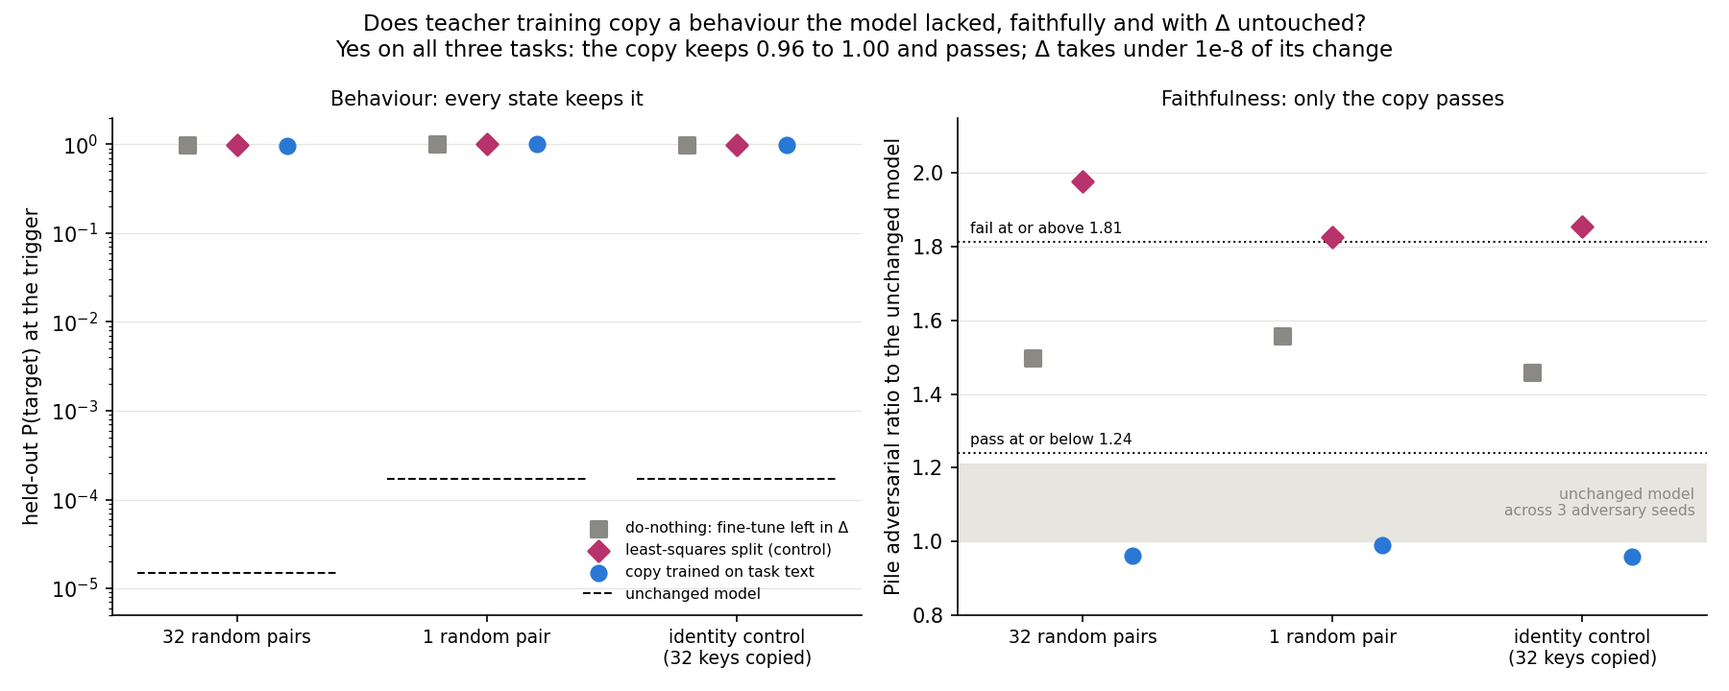
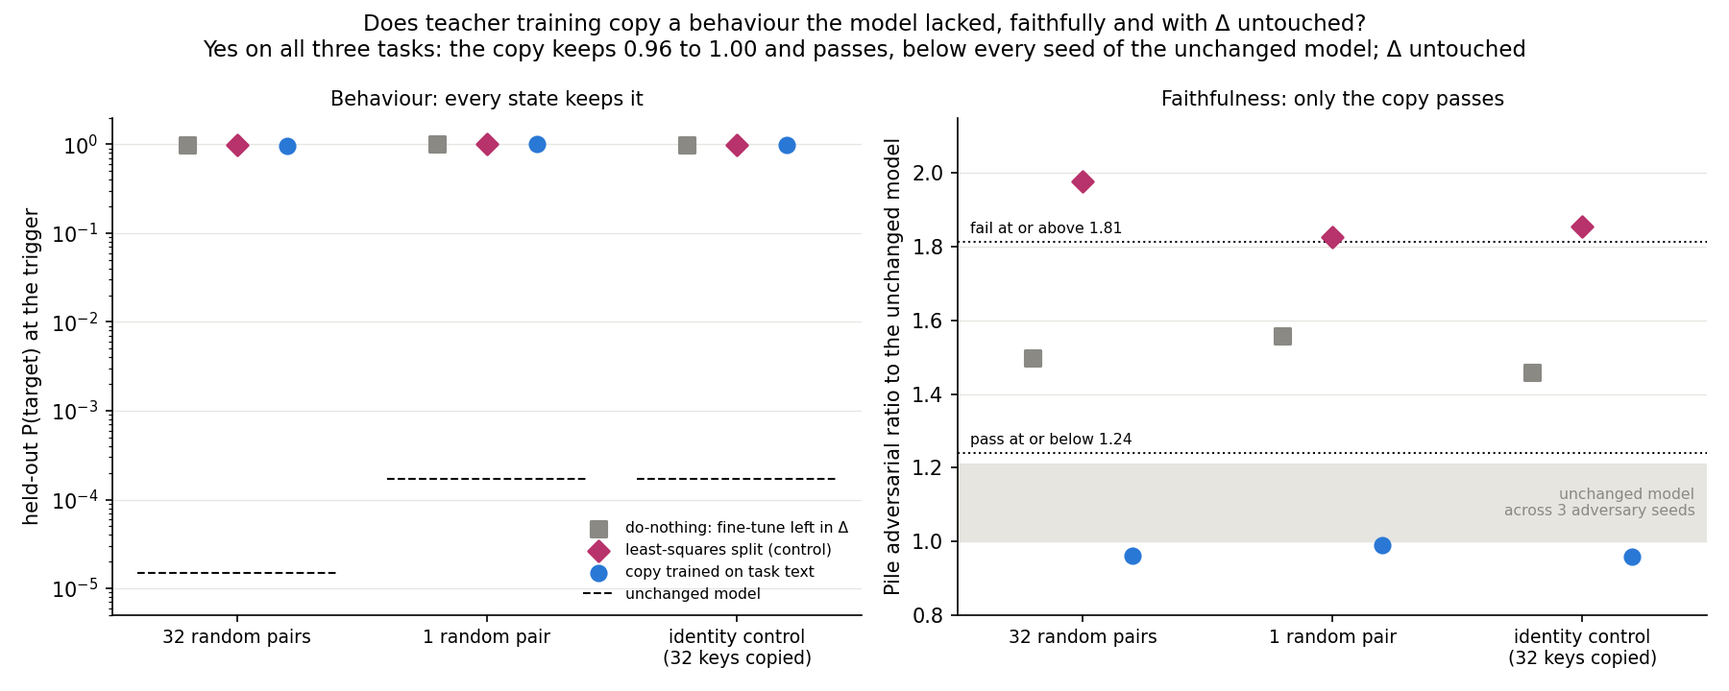
E42 write-up: independent check folded in; TRIED row corrected; log line queued

Changed region(s): [[0.1244, 0.0611, 0.9022, 0.0917]]

diff --git a/experiments/teacher_training/plot_e42.py b/experiments/teacher_training/plot_e42.py
@@ -112,7 +112,7 @@ def fig_copy(res: dict[str, Rec], out: Path) -> None:
         style(ax)
     a1.legend(fontsize=7.5, loc="lower right", frameon=False)
     fig.suptitle("Does teacher training copy a behaviour the model lacked, faithfully and with Δ untouched?\n"
-                 "Yes on all three tasks: the copy keeps 0.96 to 1.00 and passes; Δ takes under 1e-8 of its change",
+                 "Yes on all three tasks: the copy keeps 0.96 to 1.00 and passes, below every seed of the unchanged model; Δ untouched",
                  fontsize=11)
     fig.tight_layout()
     fig.savefig(out / "e42_copy.png", dpi=150)
@@ -203,7 +203,7 @@ def fig_pile(res: dict[str, Rec], out: Path) -> None:
     a1.set_yticks(ticks, [f"{v:g}" for v in ticks])
     a1.minorticks_off()
     a1.set_ylabel("held-out P(target) at the trigger")
-    a1.set_title("The Pile-text copy learns the one-pair cipher only", fontsize=10)
+    a1.set_title("The Pile-text copy passes 0.9 on the one-pair task only", fontsize=10)
     a2.set_yscale("log")
     a2.set_ylim(1e-5, 10)
     a2.set_ylabel("mean P(the key's value) right after a key word\nin plain Pile text, no marker")
@@ -213,7 +213,7 @@ def fig_pile(res: dict[str, Rec], out: Path) -> None:
     a1.legend(fontsize=7.5, loc="upper center", bbox_to_anchor=(0.5, -0.14), ncol=3, frameon=False)
     a2.legend(fontsize=7.5, loc="center right", frameon=False)
     fig.suptitle("Can ordinary Pile text alone teach the copy a behaviour the model lacked?\n"
-                 "For one pair, yes: 0.91 and a pass, filed as 'neither'; the fine-tune shows the pair in plain text",
+                 "One pair: 0.91 and a pass, filed below 0.5; the fine-tune shows the pair in plain text (cause untested)",
                  fontsize=11)
     fig.tight_layout()
     fig.savefig(out / "e42_pile.png", dpi=150)

diff --git a/reports/analyses/2026-10-28_analysis_e42-teacher-new-behaviour.md b/reports/analyses/2026-10-28_analysis_e42-teacher-new-behaviour.md
@@ -5,23 +5,28 @@
 `notebooks/E42_teacher_new_behaviour.ipynb`; figures `experiments/teacher_training/figures/e42_{copy,trigger,routes,pile}.png`
 from `experiments/teacher_training/plot_e42.py`.*
 
+*Independent check: `reports/reviews/2026-10-28_review_e42-check.md`, corrections applied.*
+
 We trained the decomposition's parts to imitate fine-tunes that teach the small model a word cipher it lacked, holding
-the importance network and the leftover weights fixed. The copies kept the cipher and passed the authors' checks on
-ordinary text, yet the model built only from the parts marked important at the cipher's cue lost almost all of it. By
-the success criterion this is a pass, by another sentence of the goals file a fail, so the user must choose a reading.
+the importance network and the leftover weights fixed. The copies kept the cipher at its cue and passed the
+reconstruction checks on ordinary text, yet the model built only from the parts marked important at the cue lost almost
+all of it. The criterion in force counts this as a pass, and the open question for the user is whether this case
+should change that criterion.
 
 ## The answer
 
-Yes by the paper's checks, with one caveat that matters. We copied fine-tunes that teach the model a word cipher. The
-copies kept the new behaviour on all three tasks, passed the adversarial check on ordinary text and left Δ untouched.
-But with Γ frozen, the model built only from the subcomponents Γ marks important at the trigger loses almost all of it.
-This holds on both random ciphers and under every map we read. Unexpectedly, a copy trained on plain Pile text alone
-learnt the one-pair cipher, which we filed it would not.
+Yes by the criterion in force, with one caveat that matters. We copied fine-tunes that teach the model a word cipher.
+At the cipher's trigger the copies kept the new behaviour on all three tasks. On ordinary text they passed the
+harness's reconstruction checks, and Δ stayed untouched. But with Γ frozen, the model built only from the subcomponents
+Γ marks important at the trigger loses almost all of it on both random ciphers. No map read so far avoids that.
+Unexpectedly, a copy trained on plain Pile text alone reached 0.91 on the one-pair task, where we filed below 0.5.
 
 **A filed prediction reversed.** We filed that the copy trained on Pile text alone would stay below 0.5 on every task.
-On the one-pair cipher it reached 0.91 and passed the check, which the filed rule scores "learnt". The fine-tune itself
-shows the pair in plain text. Right after the key word, with no marker, it puts 0.31 on the value; the unchanged model
-puts 0.0001 there. Whether that is what teaches the copy is untested.
+On the one-pair task it reached 0.91 and passed the check, which the filed rule scores "learnt". That is 0.01 over the
+line, so a rerun could read "between", which would still contradict the filing. What a copy can learn from text
+without the marker is the fine-tune's key-to-value bigram, which also answers the held-out windows. The fine-tune shows
+that bigram in plain text: right after the key word it puts 0.31 on the value, where the unchanged model puts 0.0001.
+Whether that is what teaches the copy is untested.
 
 ## What we were trying to test
 
@@ -92,11 +97,17 @@ The fine-tune at step 300 reads 0.99651 / 0.99953 / 0.99999, matching E10's 0.99
 
 ![copy keeps the behaviour and passes](../../experiments/teacher_training/figures/e42_copy.png)
 
-**Reading it.** Yes, on all three tasks. Every task-text copy keeps the target at 0.96 or more. Under the adversary it reads
-0.96 to 0.99, inside the unchanged model's seed band. The least-squares split fails on every task, so the check
-can fail here, though only just on two tasks. Do-nothing reads between the lines on all three. Δ took none of the
-copy's change, and the copy's teacher gap is under 1% of the unchanged model's. The copy also does less damage away from
-the trigger than the fine-tune does, 0.35 to 0.4 times as much.
+**Reading it.** Yes, on all three tasks. Every task-text copy keeps the target at 0.96 or more at the trigger. It
+passes the four reconstruction checks the harness runs on 256 Pile validation rows: stochastic, adversarial from one
+20-step start, CI-masked and unmasked. VPD's sparsity loss was not read. Under the adversary the copies read 0.96 to
+0.99. That is below all three of the unchanged model's adversary seeds, which read 1.00, 1.21 and 1.02 on this scale.
+The least-squares split fails on every task, so the check can fail here, though only just on two tasks. Do-nothing
+reads between the lines on all three. Δ took none of the copy's change.
+
+The copy is the fine-tune's behaviour at the trigger, not the fine-tune. Away from the trigger it does 0.35 to 0.40
+of the fine-tune's damage, and its Pile unmasked ratio is 0.81. Part of why it passes on Pile text is that it moved the
+model less there than the fine-tune did. The teacher gap's "under 1% of the unchanged model's" is dominated by the
+trigger term, so it does not show fidelity away from the trigger.
 
 Step 1,000 under the Pile harness, as ratios to the unchanged model. The stochastic lines are 1.497 and 1.503.
 
@@ -123,9 +134,16 @@ between them.
 **Reading it.** On ordinary text yes; at the trigger no, on both random ciphers. On Pile text the CI-masked KL of
 every state sits within 4% of the unchanged model's. At the trigger, the copy on 32 pairs puts 0.96 on the target with
 Δ included. With every subcomponent on and Δ out it puts 0.95; under Γ's mask, 0.007. On one pair the masked model keeps
-0.001 of 1.00. On the identity control it keeps 0.93 of 0.98. Do-nothing and the least-squares split read the same at
-the trigger. So with Γ frozen this belongs to the task, as E10 and E12 found; it is not specific to teacher training.
-Pile text cannot show it: the marker occurs at none of the positions in the first 1,024 Pile-text rows.
+0.001 of 1.00. On the identity control it keeps 0.93 of 0.98. These are means over 97 held-out windows, from one
+batch order. In log-odds the masked model still keeps 14% and 5% of the gain on the two random ciphers, so "almost all"
+holds in probability, not in log-odds.
+
+With Γ frozen, no map read so far keeps the cipher in the CI-masked model at the trigger. Teacher training and E10's
+label-trained component training carry it through subcomponents Γ keeps off there. Do-nothing leaves it in Δ, and the
+least-squares split leaves much of it in Δ. So the gap is not specific to teacher training. Whether any frozen-Γ map
+can close it is untested: teacher training with VPD's masked losses on the task's windows has not been tried here.
+The Pile checks are unlikely to see this. The marker did not occur in the 1,024 Pile training rows scanned, and it was
+chosen for zero count in the windows' source rows. The harness's 256 validation rows were not scanned.
 
 Trigger cells come from the run logs' route-split lines, to three decimals; the results files keep only the shares.
 "Full" is the state's own model with Δ, "unmasked" has every subcomponent on and Δ out, and "CI-masked" has Γ's mask
@@ -152,9 +170,10 @@ reaches 0.016 and 0.001.
 ![masked-off share at the trigger](../../experiments/teacher_training/figures/e42_routes.png)
 
 **Reading it.** Yes on both random ciphers: 0.84 of the copy's gain is masked off on the large cipher and 0.92 on the
-one-pair cipher. Label-trained component training read 0.75 and 0.86 in E10, so the copy goes the same way and a little
-further. On the identity control the share is 0.31, just over the 0.25 line, so "mixed" where we leaned "not masked
-off". Most of its gain comes from Γ's changed values, 0.64. Do-nothing reads minus the share of Γ's changed values by
+one-pair cipher. Label-trained component training read 0.75 and 0.86 in E10, at earlier steps, so the copy goes the
+same way. On the identity control, the filed positive control, the share is 0.31, just over the 0.25 line. That makes
+it "mixed" where we leaned "not masked off", but it still separates clearly from the ciphers. Most of its gain comes
+from Γ's changed values, 0.64. Do-nothing reads minus the share of Γ's changed values by
 construction, since its whole update sits in Δ. The shares' spread between batch orders is unmeasured.
 
 Shares of the gain at the trigger. The gain is in log-odds; shares are scored only when it is at least 1.
@@ -178,15 +197,16 @@ Shares of the gain at the trigger. The gain is in log-odds; shares are scored on
 | ident32 | Pile-text copy @1000 | 2.18 | 0.022 | 0.288 | −0.003 | 0.667 | 0.026 |
 
 Δ's share is 0.015 to 0.034 for the copies although Δ is frozen: it is the change in what the unchanged Δ contributes
-on the copy's new activations, not a change of Δ. Γ's changed values carry 0.04 to 0.19 on the random ciphers and 0.64 to 0.72
-on the identity control, for copies and do-nothing alike.
+on the copy's new activations, not a change of Δ. Γ's changed values carry 0.04 to 0.19 on the random ciphers and 0.64
+to 0.72 on the identity control, for the task-text copies, do-nothing and the least-squares split. The identity
+control's Pile-text copy reads 0.288.
 
 ## Can ordinary Pile text alone teach the copy the cipher?
 
 ![copy trained on Pile text, and the fine-tune's predictions on Pile text](../../experiments/teacher_training/figures/e42_pile.png)
 
-**Reading it.** For one pair, yes, which we filed it would not. The Pile-text copy reached 0.91 on the one-pair cipher
-and passed the check at 1.10. On the other two tasks it stayed far below 0.5, as filed: 0.02 and 0.001. In plain Pile
+**Reading it.** On the one-pair task the Pile-text copy reached 0.91, where we filed below 0.5, and passed the check
+at 1.10. On the other two tasks it stayed far below 0.5, as filed: 0.02 and 0.001. In plain Pile
 text the fine-tune puts 0.31 on the value right after the one-pair key. The unchanged model puts 0.0001 there. That key
 occurs 182 times in the first 1,024 rows. For 32 pairs the fine-tune's leak is 0.005. Whether the leak teaches the
 copy is untested. The 0.91 sits only 0.01 above the line. Pile-text copies moved by up to 0.03 between batch orders in
@@ -206,39 +226,46 @@ Pile reading, first 1,024 of the Pile-text rows:
 | rand1 | 182 | 0 | 0 | 0.00010 | **0.310** | 3,065 |
 | ident32 | 5,050 | 0 | 0 | 0.00038 | 0.0018 | 4.7 |
 
-The plan's "within 10 times" lean held only on the identity control. On rand32 the Pile-text copy's gain of 4.1 log-odds at step
-1,000 shows it picked up part of the leak, short of the 0.5 line.
+The plan's "within 10 times" lean held only on the identity control. On rand32 the Pile-text copy's gain of 4.1
+log-odds at step 1,000 is consistent with it picking up part of the leak, untested. The gain does not obviously follow
+the leak: the identity control's Pile-text copy gained 2.2 log-odds from a leak of only 4.7 times.
 
 ## What this means for `GOALS.md`
 
-Teacher training copies a behaviour the model lacked on three cipher tasks: it keeps the behaviour, passes the paper's
-checks on ordinary text and leaves Δ alone. With Γ frozen, the new behaviour on both random ciphers sits in
-subcomponents Γ keeps off at the trigger, the signature `GOALS.md`'s "create" branch predicts when Δ may not move. The
-same is true of every map read here, including the least-squares split and do-nothing, so it is a property of the task
-under a frozen Γ, not of the map.
+Teacher training copies the behaviour of a fine-tune that teaches something the model lacked, on three cipher tasks.
+At the trigger it keeps the behaviour, it passes the harness's four reconstruction checks on Pile text, and Δ is left
+alone; the sparsity loss was not read. With Γ frozen, the new behaviour on both random ciphers sits in subcomponents Γ
+keeps off at the trigger. That is the signature `GOALS.md`'s "create" branch predicts when Δ may not move. E10's
+label-trained component training shows it too, so it is not specific to teacher training. Whether a frozen-Γ map
+trained against the masked losses on the task's inputs would avoid it is untested.
 
-Two texts the project relies on disagree about this state, and this report does not pick between them.
+The project's texts rank the two readings of this state, and E42 is the first case that clearly separates them.
 
-- **The success criterion**, reading A of `reports/decisions/2026-10-19_decision_success-criterion.md` and `GOALS.md`
-  → "Faithful": the weak version is decided by VPD's checks on W + δW, with Δ not absorbing δW. The split of the gain
-  describes mechanism. By it, the task-text copy **passes** on all three tasks. Its stochastic, adversarial, CI-masked
-  and unmasked Pile ratios are 0.81 to 0.99, and Δ's share is zero. The sparsity loss was not read; with Γ frozen it
-  reads the weights only, as E10 found.
-- **`GOALS.md` → "Where an update goes"** says: "The weak version holds when (d) and (e) are small." Its (d) is the
-  masked-off share and its (e) the residual, Δ's share. The residual is small here, 0.02 to 0.03. The masked-off share
-  is 0.84 and 0.92 on the random ciphers. By this sentence the copy **fails** on both random ciphers. It holds on the
-  identity control only if 0.31 counts as small.
+- **The criterion in force**, reading A of `reports/decisions/2026-10-19_decision_success-criterion.md` and `GOALS.md`
+  → "Faithful": the weak version is decided by VPD's checks on W + δW, with Δ not absorbing δW. By it, the task-text
+  copy **passes** on all three tasks. Its stochastic, adversarial, CI-masked and unmasked Pile ratios are 0.81 to 0.99,
+  and Δ's share is zero. The sparsity loss was not read; with Γ frozen it depends on W′ only, as E10 found, and the
+  copy's W′ is not the fine-tune's, so for the copy it would still be a reading.
+- **`GOALS.md` → "Where an update goes"**, a section headed as mechanism hypotheses that "do not decide the weak
+  version", says: "The weak version holds when (d) and (e) are small." Its (d) is the masked-off share and its (e) the
+  residual, Δ's share. The very next sentence says VPD's checks decide. The residual is small here, 0.017 to 0.034. The
+  masked-off share is 0.84 and 0.92 on the random ciphers. By this sentence the copy would **fail** on both random
+  ciphers.
 
-The decision document already flagged why these can disagree: Pile rows hold almost no trigger positions, so a Pile
-ratio near 1 mostly says the decomposition's account of the old model survived. Label-trained component training on
-the cipher already passed by Pile in E10 with the same masked-off signature; E42 shows it for a map of a finished update,
-where the marker occurs at none of the Pile positions read. The CI-masked check the paper uses, read
-on the task's own windows, loses 0.96 of probability on 32 pairs. The draft card at the end puts the choice to the user.
+The decision document flagged why these can come apart: Pile rows hold almost no trigger positions, so a Pile ratio
+near 1 mostly says the decomposition's account of the old model survived. Label-trained component training on the
+cipher already passed by Pile in E10 with the same masked-off signature. E42 shows it for a map of a finished update.
+The CI-masked model, read on the task's own windows, loses 0.96 of probability on 32 pairs. The open question is not
+which text decides, which the files settle, but whether this case should change reading A. The 2026-10-19 decision left
+reading A "open to change at some point in future". The draft card at the end puts that to the user.
 
 ## How compelling is the evidence
 
 - **One draw.** One fine-tune seed, one batch order per copy, one adversary start of 20 steps on 256 Pile rows per state.
-  In E34 a second random start once read a fine-tune six times higher, so passes are lower bounds.
+  In E34 a second random start once read a fine-tune six times higher. The adversarial ratios are lower bounds, so a
+  pass may be lenient.
+- **The stochastic ratio separates nothing here.** It reads 0.87 to 0.94 for every state, do-nothing and the
+  least-squares split included, and carries none of the verdicts.
 - **Card.** The L40's band, 1.24 to 1.81, is wider than the H100's 1.40 to 1.61. No copy depends on it: every copy
   reads 1.10 or less, under either card's pass line. Do-nothing's 1.46 to 1.56 would be inconclusive on either card,
   if the readings carried over.
@@ -257,15 +284,15 @@ on the task's own windows, loses 0.96 of probability on 32 pairs. The draft card
 
 ## Surprises
 
-- **Something unexpected happened that I cannot fully explain: the Pile-text copy learnt the one-pair cipher.**
-  Filed: neither, P below 0.5. Seen: P 0.911 and a pass. The fine-tune's map shows in plain text at the key, 3,065
-  times the unchanged model's probability; untested as the cause.
+- **Something unexpected happened that I cannot fully explain: the Pile-text copy reached 0.91 on the one-pair task.**
+  Filed: neither, P below 0.5. Seen: P 0.911 and a pass, 0.011 over the "learnt" line. The fine-tune shows the
+  key-to-value bigram in plain text, 3,065 times the unchanged model's probability; untested as the cause.
 - **The fine-tune leaks into plain text more than planned for**, 146 times on rand32 and 3,065 times on rand1 against
   the plan's 10. Reported, not scored.
 - **Identity control "mixed" instead of "not masked-off"**: 0.309 against the 0.25 line, 0.247 at step 100. Narrow
   miss.
 - **The CI-masked model's loss at the trigger** is not itself a surprise: E10 and E12 found it for the
-  random maps. What is new is a map of a finished update that shows it while passing every Pile check.
+  random maps. What is new is a map of a finished update that shows it while passing the Pile reconstruction checks.
 
 ## What next
 
@@ -274,8 +301,11 @@ on the task's own windows, loses 0.96 of probability on 32 pairs. The draft card
    change as the repair; hundreds sharing it does not.
 2. **Pile-text one-pair copy without the key's rows**, cluster, $0, under 30 minutes. If it still learns, the leak at
    the key is not the cause.
-3. **The user's decision on the card.** If the CI-masked check on task inputs joins the criterion, frozen-Γ maps fail
-   every new behaviour seen so far and the next step is updating Γ.
+3. **Masked teacher training on the cipher windows**, `masked_teacher.py` from E37 Amendment 1, Γ frozen. If the
+   CI-masked model then keeps the cipher at the trigger and the Pile checks still pass, the trigger gap is a property
+   of the maps tried, not of a frozen Γ.
+4. **The user's decision on the card.** If the CI-masked check on task inputs joins the criterion, every frozen-Γ map
+   read so far fails on new behaviours, and the next step is item 3 or updating Γ.
 
 ## Scorecard
 
@@ -301,29 +331,39 @@ learnt → reversal flagged, the Pile reading read, which it is above. No P1 inc
 
 ## Draft pending-decision card, for the lead
 
-**Title.** A copy of a new behaviour passes the paper's checks but its CI-masked model loses the behaviour at the
-trigger: does it count as faithful?
-**Urgency.** Soon: it decides how every frozen-Γ result on a new behaviour is read, here and on the larger model. **Run line.** Due to
-run: the CPU list of the subcomponents that carry the copy's gain, $0, either way.
+**Title.** A copy of a new behaviour passes the criterion in force, but its CI-masked model loses the behaviour at the
+trigger: should that change the criterion?
+**Urgency.** Soon: it decides how every frozen-Γ result on a new behaviour is read, here and on the larger model.
+**Run line.** Due to run: the CPU list of the subcomponents that carry the copy's gain, $0, either way.
 
-*What happened.* Teacher training copied a fine-tune that teaches the 67M model a word cipher it lacked. The copy keeps
-the cipher and passes every check the paper runs on ordinary text, and the leftover weights Δ stay exactly as they
-were. But at the cipher's trigger, the model built only from the subcomponents Γ marks important puts 0.007 on the
-right word, where the copy puts 0.96. Ordinary text never contains the trigger, so the paper's checks cannot see this.
-Every map tried behaves the same way at the trigger.
+*What happened.* Teacher training copied a fine-tune that teaches the 67M model a word cipher it lacked. At the
+cipher's trigger the copy keeps the behaviour. It passes the four reconstruction checks the harness runs on Pile text,
+with one 20-step adversary start; VPD's sparsity loss was not read. The leftover weights Δ stay exactly as they were.
+But at the trigger, the model built only from the subcomponents Γ marks important puts 0.007 on the right word, where
+the copy puts 0.96. The trigger's marker did not occur in the Pile rows scanned, so the Pile checks are unlikely to see
+this. No map read so far keeps the cipher in that masked model. The reasons differ: do-nothing and the least-squares
+split leave it in Δ, while teacher training and label-trained component training carry it through subcomponents Γ
+keeps off.
 
-*Why it is a decision.* `GOALS.md` says the paper's checks decide the weak version, and the success criterion of
-2026-10-19 confirms it; by that, this is a pass. The same file also says the weak version holds when the part of the
-gain carried by subcomponents Γ keeps off is small; here that part is 0.84 to 0.92, so by that, it fails.
+*Why it is a decision.* The criterion in force, reading A of 2026-10-19, which the user said was open to change, is
+decided by VPD's checks on Pile text, and by it E42 passes. `GOALS.md`'s mechanism section, which the file marks as not
+deciding, says the weak version holds when the masked-off share is small. By that, E42 fails at 0.84 to 0.92 on the
+random ciphers. E42 is the first case where a map passes the first and clearly fails the second. Should it change the
+criterion?
 
 *Options.*
-- Option 1: **The paper's checks on ordinary text decide**, as now. E42 is a pass; the masked-off share is reported as how a
-  new behaviour shows up. Teacher training's claim extends to new behaviours, and the cipher becomes a candidate task
-  for the larger model.
-- Option 2: **The CI-masked check also runs on the task's own inputs, and counts.** E42 fails on both random ciphers, as
-  does every map read so far with Γ frozen. The commute line's next question becomes updating Γ for new behaviours.
-- Option 3: **Option 1 for the verdict, with the trigger's CI-masked reading reported beside every pass**, including on the
-  larger model, so the gap stays visible without changing past verdicts.
+- Option 1: **Keep reading A as it is.** E42 is a pass; the masked-off share is reported as how a new behaviour shows
+  up. Teacher training's claim extends to new behaviours, and the cipher becomes a candidate task for the larger model.
+- Option 2: **The CI-masked check also runs on the task's own inputs, and counts.** E42 fails on both random ciphers,
+  as does every map read so far with Γ frozen. The commute line's next question becomes updating Γ, or a frozen-Γ map
+  trained against the masked losses on the task's inputs. The new check needs its own reference at the unchanged model
+  and its own line. E10's label-trained states would fail it retroactively.
+- Option 3: **Before deciding, try masked teacher training on the task inputs.** Teacher training with VPD's masked
+  losses on the cipher windows, `masked_teacher.py` from E37 Amendment 1, is already built. It trains the CI-masked
+  and stochastic models toward the fine-tune at the trigger, with Γ frozen. If it keeps the cipher in the CI-masked
+  model and still passes, Option 2 costs no map; if it cannot, Option 2 means updating Γ.
+- Option 4: **Reading A for the verdict, with the trigger's CI-masked reading reported beside every pass**, including
+  on the larger model, so the gap stays visible without changing past verdicts.
 
 *Why it matters.* It decides whether "Γ frozen" is compatible with post-training that teaches something new, which is
 `GOALS.md`'s own fork between new capabilities and brittle decompositions.
@@ -336,6 +376,10 @@ gain carried by subcomponents Γ keeps off is small; here that part is 0.84 to 0
 - The CI-masked KL at the trigger as a distribution-level number; only the target's probability was read. The
   unchanged model's own trigger cells are not in the results file.
 - The Pile-text one-pair copy without the key's rows; Pile-text copies beyond 1,000 steps; a Pile reading of the copies.
+- Masked teacher training on the task's windows, or any frozen-Γ map limited to the subcomponents Γ switches on at the
+  trigger.
+- The marker count in the harness's 256 Pile validation rows; only 1,024 Pile training rows were scanned.
+- VPD's sparsity loss on any state.
 - An SGD fine-tune or copy; a LoRA fine-tune; E10's step-10 fine-tune as a second teacher; the scaled adjoint split.
 - The larger model.
 

diff --git a/experiments/TRIED.md b/experiments/TRIED.md
@@ -81,7 +81,7 @@ Codes E1–E13 are the ones the research log ("Update Decomposition", see `READM
 | Qwen prefix test (apparatus, no E-code) | Does Qwen3-1.7B-Base complete GSM8K test questions word for word from their first 60%, as it does train ones? (`experiments/qwen_prefix_test`, 2026-10-28; plan `reports/plans/2026-10-28_plan_qwen-prefix-test.md`; analysis `reports/analyses/2026-10-28_analysis_qwen-prefix-test.md`; MATS cluster L40, job 39181, about a minute, $0) | Base model, raw text, no chat template or special tokens, greedy. Copy control first and alone: the first 256 GSM8K test questions shown whole, a blank line, then their own 60% prefix; exact match on the remainder must reach 0.90, else stop. Then GSM8K train (1,319), the 2026 synthetic GSM-Symbolic floor (2,000) and GSM8K test (1,319) | Stopped at the copy control: 0.539 ± 0.031 (138 of 256) against the 0.90 bar; P0 failed against a high-confidence pass, P1-P3 not run. Unfiled: the model copies the narrative, then near the final question starts a worked solution ("To determine…" in 51 of 118 failures); matching only the first 5, 8, 10, 15 remainder words gives 0.78, 0.67, 0.62, 0.56. The exact-match rule reads this habit, so no memory reading | The test gave no reading; card `decision-qwen-baseline` back to the user with three options: the post-trained model's accuracy on the 2026 synthetic set (cheap check), fresh sets as the primary held-out score, or a likelihood test that needs no generation |
 | Qwen fresh set (apparatus, no E-code) | Does the unchanged Qwen3-1.7B score as well on new grade-school problems it cannot have memorised as on GSM8K test? The user's idea (`experiments/qwen_fresh_set`, 2026-10-28; plan `reports/plans/2026-10-28_plan_qwen-fresh-set.md`; analysis `reports/analyses/2026-10-28_analysis_qwen-fresh-set.md`; MATS cluster L40, job 39230, about 20 min, $0) | Unchanged model, thinking off, greedy, the baseline's prompt, graders and 512-token window. Grader check on every gold, then GSM8K test first as the control (all 1,319), then GSM1k (Scale AI's hand-written problems, private until 2025-03-31, four weeks before Qwen3; 1,197 of 1,205 after an 8-gram overlap filter) and the 2026 synthetic GSM-Symbolic set (10 new-number variants of each of 100 GSM8K test problems). Answers past the window dropped (filed rule), all-answers and capped readings beside | Control identical to the baseline on all 1,319. Filed rule: GSM1k 0.782 against GSM8K 0.777, gap −0.004 ± 0.017, verdict "same" (P4, predicted ambiguous, missed; P0-P3, P5-P7 held). 2026 variants 0.010 ± 0.035 below their originals over 94 templates; format gap the same. Caveat: only 86% of GSM1k answers fit the window against 95%; on all answers GSM1k reads 0.711 against 0.756, gap 0.045 ± 0.018, just past the "same" cut; capped 0.068. Unfiled: long answers are mostly wrong on both sets (0.28 and 0.32 right), 83 of GSM1k's 121 wrong long answers finished rather than ran out of room, and at GSM8K's fit share GSM1k's all-answers score would be 0.758 | Filed "same" branch: keep GSM8K for training and score every update on GSM1k beside GSM8K test, reporting each set's fit share; card `decision-qwen-baseline`'s headroom half closes on keep. Firm as an action under every rule; "the 0.756 is ability" holds only under the dropped rule. A reference model scored on both sets would settle that, not run |
 | Qwen adversary at 128 rows (apparatus, no E-code) | Does the paper's 20-step adversary still read about 20 nats on the unchanged Qwen3-1.7B decomposition at the authors' size, and can it be Qwen's pass test after an update? The user's option (a) on card `decision-qwen-adversary` (`experiments/qwen_adversary`, 2026-10-27; plan `reports/plans/2026-10-27_plan_qwen-adversary-128.md`; analysis `reports/analyses/2026-10-28_analysis_qwen-adversary-128.md`; RunPod H100, 1 h 14 min, $4.88) | Unchanged decomposition, fp32 with Γ in bf16, FineWeb-Edu rows of 512 tokens, the first four equal to the port check's. The paper's evaluation adversary: one setting per subcomponent and one Δ share per matrix, shared by every token of the block, random start, 20 sign steps of 0.1, mean KL over every token. Stages: recompute check against the port, the 4-row control (seeds 0-2), references on 128 rows, seeds 0-2 on all 128 rows | Recompute check max diff 2.9e-4 (≤ 1e-3). Control 20.8, 24.1, 7.1, mean 17.4 (in [10, 30]). 128 rows: 1.70, 1.44, 1.71, mean 1.62, a tenth of the 4-row mean (ratio 0.093, P1 held, expected 1-5 nats) and largest/smallest − 1 = 0.19 (P2 held); importance-masked KL 0.142, KL to an even spread over the vocabulary 10.31; filed reading "usable with one start". Unfiled: still climbing ~8% per step at step 20 (lower bound); two control starts read 4% and 13% below the port check's on the same rows and seeds (different GPU, not traced) | The adversary is usable as Qwen's pass test after an update: ratio to 1.62 on the same 128 rows, same card, one start far from the 1.5 line and three near it; the floor's spread measure is to be fixed in the first experiment's plan (with max/min − 1 the 67M's "1 + 3 floors" band reaches about 1.58, above the line). Not run: more steps, more starts, task rows, bf16, the paper's own number for this decomposition (not in the repo) |
-| E42 | Teacher training on a behaviour the model lacks: does the copy of a key-to-value cipher fine-tune keep it, faithfully and with Δ fixed, and through which subcomponents? (`experiments/teacher_training/newskill.py`, `src/commute/kv_windows.py`, 2026-10-28; plan `reports/plans/2026-10-28_plan_e42-teacher-new-behaviour.md`; analysis `reports/analyses/2026-10-28_analysis_e42-teacher-new-behaviour.md`, notebook `notebooks/E42_teacher_new_behaviour.ipynb`, figures `figures/e42_{copy,trigger,routes,pile}.png` from `plot_e42.py`; MATS cluster L40, debug QoS, jobs 40166 rand32, 40194 ident32, 40195 rand1, about 22 min each, $0) | Teachers = E10's arm-A fine-tunes (all 24 matrices, Adam 3e-5, batch 32, seed 0) run to step 1000 on rand32, rand1, ident32 (E10's windows, 403 train / 97 held-out). E34's students from W₀, Γ and Δ frozen, Adam 1e-5, 1000 steps: arm A task windows, arm B Pile train rows 32,768 onward. Read at 1000 through the Pile harness (one start, 20 steps, 256 rows) beside do-nothing and the least-squares split; route split at the trigger; Pile reading (teacher's P(value) after each key in plain Pile text) | C1 pass (L40 floor 0.209, lines 1.24 / 1.81); G1 pass on all three (rand1's could not fail: E10 0.9982, tolerance 0.02). Teachers P 0.994 / 1.000 / 0.997; do-nothing 1.50 / 1.56 / 1.46, all inconclusive; least-squares 1.98 / 1.83 / 1.86, all fail (power, thin on rand1 and ident32). **Arm A** (rand32 / rand1 / ident32): P 0.964 / 1.000 / 0.983, PGD 0.960 / 0.989 / 0.957, all pass (P1 holds ×3); teacher gap ≤ 0.53% of W₀'s; Δ share ~1e-9; damage 0.35-0.40 of the teacher's. Masked-off share 0.839 / 0.918 / 0.309 (P2 holds on the ciphers, ident32 "mixed", narrow miss of "not masked-off"). At the trigger the CI-masked P is 0.007 / 0.001 / 0.929 against the copy's 0.964 / 1.000 / 0.983, while the Pile CI-masked ratio is 0.98 / 0.98 / 0.97; do-nothing and least-squares read the same at the trigger. **Arm B**: P 0.019 / **0.911** / 0.0013, PGD 1.08 / 1.10 / 1.03; **P3 reversed on rand1** (filed neither, read learnt: P 0.911, pass), neither on the others. Pile reading: teacher P(value) after the key 0.0048 / **0.310** / 0.0018 vs W₀ 0.00003 / 0.0001 / 0.0004 (146× / 3,065× / 4.7×; plan expected ≤ 10×); rand1's key at 182 positions in 1,024 rows, no marker anywhere | Teacher training copies a behaviour the model lacked, faithfully by every Pile check and with Δ untouched, so its claim extends past half-had behaviours on the 67M. With Γ frozen the new behaviour sits in subcomponents Γ keeps off at the trigger (GOALS's "create" signature), under every map read: a pass by the success criterion (reading A), a fail by GOALS's "weak version holds when (d) and (e) are small"; draft pending card in the analysis, not decided. The text-only copy learns a new pair when the teacher leaks it into plain text (cause untested). Next: list the subcomponents carrying the gain ($0, CPU, saved states); Pile-text rand1 copy without the key's rows. One seed, one batch order, one adversary start, L40 band, 67M, one task format |
+| E42 | Teacher training on a behaviour the model lacks: does the copy of a key-to-value cipher fine-tune keep it, faithfully and with Δ fixed, and through which subcomponents? (`experiments/teacher_training/newskill.py`, `src/commute/kv_windows.py`, 2026-10-28; plan `reports/plans/2026-10-28_plan_e42-teacher-new-behaviour.md`; analysis `reports/analyses/2026-10-28_analysis_e42-teacher-new-behaviour.md`, notebook `notebooks/E42_teacher_new_behaviour.ipynb`, independent check `reports/reviews/2026-10-28_review_e42-check.md`, figures `figures/e42_{copy,trigger,routes,pile}.png` from `plot_e42.py`; MATS cluster L40, debug QoS, jobs 40166 rand32, 40194 ident32, 40195 rand1, about 22 min each, $0) | Teachers = E10's arm-A fine-tunes (all 24 matrices, Adam 3e-5, batch 32, seed 0) run to step 1000 on rand32, rand1, ident32 (E10's windows, 403 train / 97 held-out). E34's students from W₀, Γ and Δ frozen, Adam 1e-5, 1000 steps: arm A task windows, arm B Pile train rows 32,768 onward. Read at 1000 through the Pile harness (one start, 20 steps, 256 rows) beside do-nothing and the least-squares split; route split at the trigger; Pile reading (teacher's P(value) after each key in plain Pile text) | C1 pass (L40 floor 0.209, lines 1.24 / 1.81); G1 pass on all three (rand1's could not fail: E10 0.9982, tolerance 0.02). Teachers P 0.994 / 1.000 / 0.997; do-nothing 1.50 / 1.56 / 1.46, all inconclusive; least-squares 1.98 / 1.83 / 1.86, all fail (power, thin on rand1 and ident32). **Arm A** (rand32 / rand1 / ident32): P 0.964 / 1.000 / 0.983, PGD 0.960 / 0.989 / 0.957, all pass (P1 holds ×3); teacher gap ≤ 0.53% of W₀'s; Δ share ~1e-9; damage 0.35-0.40 of the teacher's. Masked-off share 0.839 / 0.918 / 0.309 (P2 holds on the ciphers, ident32 "mixed", narrow miss of "not masked-off"). At the trigger the CI-masked P is 0.007 / 0.001 / 0.929 against the copy's 0.964 / 1.000 / 0.983, while the Pile CI-masked ratio is 0.98 / 0.98 / 0.97; do-nothing and least-squares read the same at the trigger. **Arm B**: P 0.019 / **0.911** / 0.0013, PGD 1.08 / 1.10 / 1.03; **P3 reversed on rand1** (filed neither, read learnt: P 0.911, pass), neither on the others. Pile reading: teacher P(value) after the key 0.0048 / **0.310** / 0.0018 vs W₀ 0.00003 / 0.0001 / 0.0004 (146× / 3,065× / 4.7×; plan expected ≤ 10×); rand1's key at 182 positions in 1,024 rows, no marker anywhere | Teacher training copies a behaviour the model lacked, passing the harness's four reconstruction checks on Pile text (sparsity loss not read) with Δ untouched, so its claim extends past half-had behaviours on the 67M. With Γ frozen the new behaviour sits in subcomponents Γ keeps off at the trigger (GOALS's "create" signature); no map read keeps it in the CI-masked model at the trigger, for different reasons per map (not specific to teacher training; masked teacher training on the task windows untried). A pass by the criterion in force (reading A); GOALS's mechanism section, marked as not deciding, would read it as a fail: pending card on whether E42 should change the criterion. The text-only copy reached 0.91 on the one-pair task, where the teacher leaks the pair into plain text (a candidate cause, untested). Next: list the subcomponents carrying the gain ($0, CPU, saved states); Pile-text rand1 copy without the key's rows. One seed, one batch order, one adversary start, L40 band, 67M, one task format |
 
 ## Proposed and dropped
 

diff --git a/docs/research_log/PENDING.md b/docs/research_log/PENDING.md
@@ -4,3 +4,4 @@ One line per event that changes what the log says, appended when the event's fil
 `- YYYY-MM-DD · <file> · <log sections it changes> · <one line of what changed>`.
 A flush applies every line to `parts/` (README.md → Layout), rebuilds, republishes, and moves the lines to the changelog row it writes, leaving
 this list empty. Recipe: `README.md` → "Batched updates".
+- 2026-10-28 · reports/analyses/2026-10-28_analysis_e42-teacher-new-behaviour.md, reports/reviews/2026-10-28_review_e42-check.md, notebooks/E42_teacher_new_behaviour.ipynb, figures e42_{copy,trigger,routes,pile}.png, cluster jobs 40166/40194/40195 (L40, $0) · new card e42.html, techniques comparison cells (cipher column, ⧗ → result for both teacher-training rows), Q4 status (new capabilities), Q1 status, commute card in section next, timeline 2026-10-28, decisions (new Soon card from the end of the analysis: a copy of a new behaviour passes reading A but its CI-masked model loses the behaviour at the trigger; should that change the criterion? options keep / count a trigger CI-masked check / masked teacher training first (E42 Amendment 1, running) / report beside every pass) · E42: task-text copies of all three cipher fine-tunes pass the harness's Pile checks with Δ untouched; on rand32/rand1 the gain runs 0.84/0.92 through subcomponents Γ keeps off and the trigger CI-masked P is ~0.007; Pile-text copy reached 0.91 on rand1, reversing filed "neither". Claim wording from the check's allowed paragraph only.
